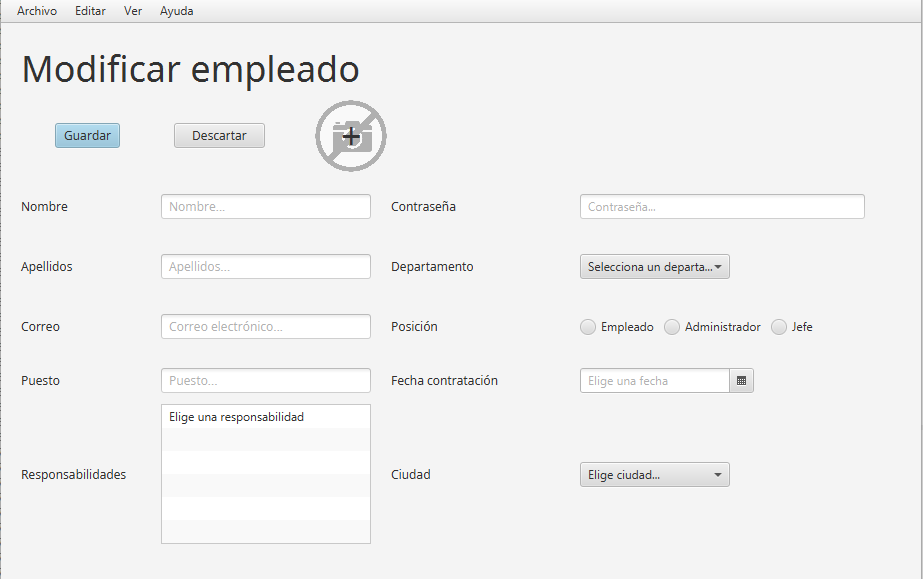
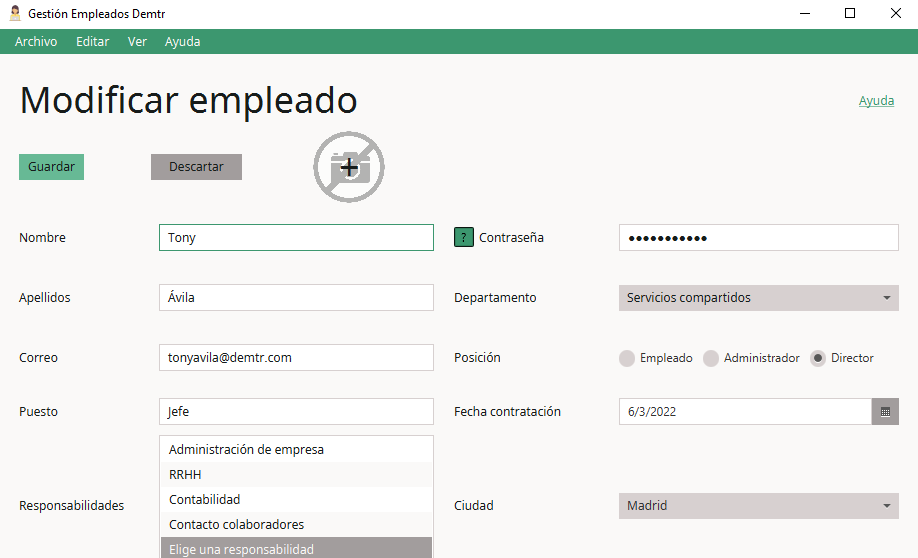
estilos completo

diff --git a/Ejercicios y prácticas/Ekaterina_Stroevitch_Krasnova_Práctica2/out/production/Ekaterina_Stroevitch_Krasnova_Práctica2/ch/makery/address/css/tutorial.css b/Ejercicios y prácticas/Ekaterina_Stroevitch_Krasnova_Práctica2/out/production/Ekaterina_Stroevitch_Krasnova_Práctica2/ch/makery/address/css/tutorial.css
@@ -1,0 +1,39 @@
+* {
+    -fx-primario: #3C976F;
+    -fx-secundario: #1b5e47;
+    -fx-verde-claro: #67b995;
+    -fx-gris-claro: #d7d0d0;
+    -fx-gris-medio: #a29d9d;
+    -fx-gris-oscuro: #575454;
+    -fx-blanco: #faf9f8;
+    -fx-negro:  #181c1b;
+}
+.anchor-inner{
+    -fx-background-color: -fx-blanco;
+}
+
+.title {
+    -fx-background-color: -fx-gris-medio;
+    -fx-background-insets: 1;
+}
+.arrow-button .arrow{
+    -fx-background-color: -fx-gris-claro;
+    -fx-focus-color: transparent;
+}
+.progress-bar{
+    -fx-progress-color: -fx-primario;
+}
+.progress-bar .track{
+    -fx-background-color: -fx-gris-claro;
+    -fx-background-radius: 0;
+}
+.progress-bar  .bar{
+    -fx-background-color: -fx-primario;
+}
+.tab-pane .tab{
+    -fx-background-color: #f1ecec;
+    -fx-focus-color: -fx-primario;
+}
+.tab-header-background{
+    -fx-background-color: -fx-gris-claro;
+}

diff --git a/Ejercicios y prácticas/Ekaterina_Stroevitch_Krasnova_Práctica2/src/ch/makery/address/css/tutorial.css b/Ejercicios y prácticas/Ekaterina_Stroevitch_Krasnova_Práctica2/src/ch/makery/address/css/tutorial.css
@@ -1,0 +1,39 @@
+* {
+    -fx-primario: #3C976F;
+    -fx-secundario: #1b5e47;
+    -fx-verde-claro: #67b995;
+    -fx-gris-claro: #d7d0d0;
+    -fx-gris-medio: #a29d9d;
+    -fx-gris-oscuro: #575454;
+    -fx-blanco: #faf9f8;
+    -fx-negro:  #181c1b;
+}
+.anchor-inner{
+    -fx-background-color: -fx-blanco;
+}
+
+.title {
+    -fx-background-color: -fx-gris-medio;
+    -fx-background-insets: 1;
+}
+.arrow-button .arrow{
+    -fx-background-color: -fx-gris-claro;
+    -fx-focus-color: transparent;
+}
+.progress-bar{
+    -fx-progress-color: -fx-primario;
+}
+.progress-bar .track{
+    -fx-background-color: -fx-gris-claro;
+    -fx-background-radius: 0;
+}
+.progress-bar  .bar{
+    -fx-background-color: -fx-primario;
+}
+.tab-pane .tab{
+    -fx-background-color: #f1ecec;
+    -fx-focus-color: -fx-primario;
+}
+.tab-header-background{
+    -fx-background-color: -fx-gris-claro;
+}

diff --git a/Ejercicios y prácticas/Ekaterina_Stroevitch_Krasnova_Práctica2/out/production/Ekaterina_Stroevitch_Krasnova_Práctica2/ch/makery/address/css/overview.css b/Ejercicios y prácticas/Ekaterina_Stroevitch_Krasnova_Práctica2/out/production/Ekaterina_Stroevitch_Krasnova_Práctica2/ch/makery/address/css/overview.css
@@ -53,7 +53,7 @@
     -fx-border-width: 0 1 0 0;
 }
 .table-row-cell:odd:filled{
-    -fx-background-color: #eae7e6;
+    -fx-background-color: #f5f2f1;
 
 }
 .table-row-cell:even:filled{
@@ -65,7 +65,7 @@
 .table-row-cell:empty .table-cell {
      -fx-border-width: 0;
  }
-.table-row-cell:selected{
+.table-row-cell:selected .table-cell{
     -fx-background-color: -fx-gris-claro;
 
 }
@@ -108,9 +108,6 @@
 .left-arrow-button, .right-arrow-button{
     -fx-background-color: -fx-gris-medio;
     -fx-background-radius: 0;
-}
-.left-arrow-button > *, .right-arrow-button > *{
-    -fx-background-color: -fx-gris-oscuro;
 }
 
 .tree-cell:selected{

diff --git a/Ejercicios y prácticas/Ekaterina_Stroevitch_Krasnova_Práctica2/src/ch/makery/address/css/overview.css b/Ejercicios y prácticas/Ekaterina_Stroevitch_Krasnova_Práctica2/src/ch/makery/address/css/overview.css
@@ -53,7 +53,7 @@
     -fx-border-width: 0 1 0 0;
 }
 .table-row-cell:odd:filled{
-    -fx-background-color: #eae7e6;
+    -fx-background-color: #f5f2f1;
 
 }
 .table-row-cell:even:filled{
@@ -65,7 +65,7 @@
 .table-row-cell:empty .table-cell {
      -fx-border-width: 0;
  }
-.table-row-cell:selected{
+.table-row-cell:selected .table-cell{
     -fx-background-color: -fx-gris-claro;
 
 }
@@ -108,9 +108,6 @@
 .left-arrow-button, .right-arrow-button{
     -fx-background-color: -fx-gris-medio;
     -fx-background-radius: 0;
-}
-.left-arrow-button > *, .right-arrow-button > *{
-    -fx-background-color: -fx-gris-oscuro;
 }
 
 .tree-cell:selected{

diff --git a/Ejercicios y prácticas/Ekaterina_Stroevitch_Krasnova_Práctica2/out/production/Ekaterina_Stroevitch_Krasnova_Práctica2/ch/makery/address/css/create.css b/Ejercicios y prácticas/Ekaterina_Stroevitch_Krasnova_Práctica2/out/production/Ekaterina_Stroevitch_Krasnova_Práctica2/ch/makery/address/css/create.css
@@ -136,7 +136,12 @@
     -fx-border-width: 0;
     -fx-effect: none;
 }
-
-.radio{
+.radio-button{
     -fx-focus-color: -fx-primario;
+}
+.radio{
+    -fx-background-color: -fx-gris-claro;
+}
+
+.radio-button .dot {
 }

diff --git a/Ejercicios y prácticas/Ekaterina_Stroevitch_Krasnova_Práctica2/src/ch/makery/address/css/create.css b/Ejercicios y prácticas/Ekaterina_Stroevitch_Krasnova_Práctica2/src/ch/makery/address/css/create.css
@@ -136,7 +136,12 @@
     -fx-border-width: 0;
     -fx-effect: none;
 }
-
-.radio{
+.radio-button{
     -fx-focus-color: -fx-primario;
+}
+.radio{
+    -fx-background-color: -fx-gris-claro;
+}
+
+.radio-button .dot {
 }

diff --git a/Ejercicios y prácticas/Ekaterina_Stroevitch_Krasnova_Práctica2/src/ch/makery/address/view/help/HelpController.java b/Ejercicios y prácticas/Ekaterina_Stroevitch_Krasnova_Práctica2/src/ch/makery/address/view/help/HelpController.java
@@ -54,6 +54,15 @@ public class HelpController {
     @FXML
     private TitledPane paneVer;
 
+    @FXML
+    private ImageView aniadirImagen;
+
+    @FXML
+    private ImageView ayudaContrasenia;
+
+    @FXML
+    private ImageView filtrarEmpleados;
+
     public TitledPane getPaneBorrar() {
         return paneBorrar;
     }
@@ -90,12 +99,18 @@ public class HelpController {
         FileInputStream fis2 = null;
         FileInputStream fis3 = null;
         FileInputStream fis4 = null;
+        FileInputStream fis5 = null;
+        FileInputStream fis6 = null;
+        FileInputStream fis7 = null;
         try {
             fis = new FileInputStream("resources/images/menu.png");
             fis1 = new FileInputStream("resources/images/verEmpleados.png");
             fis2 = new FileInputStream("resources/images/crearEmpleados.png");
             fis3 = new FileInputStream("resources/images/modificarEmpleado.png");
             fis4 = new FileInputStream("resources/images/borrarEmpleado.png");
+            fis5 = new FileInputStream("resources/images/filtro.png");
+            fis6 = new FileInputStream("resources/images/subirImagen.png");
+            fis7 = new FileInputStream("resources/images/contrasenia.png");
         } catch (FileNotFoundException e) {
             e.printStackTrace();
         }
@@ -105,6 +120,10 @@ public class HelpController {
         crearEmpleados.setImage(new Image(fis2));
         editarEmpleados.setImage(new Image(fis3));
         borrarEmpleados.setImage(new Image(fis4));
+        filtrarEmpleados.setImage(new Image(fis5));
+        aniadirImagen.setImage(new Image(fis6));
+        ayudaContrasenia.setImage(new Image(fis7));
+
     }
     private void progresoAcordeon(){
         barraProgreso.setProgress(0);

diff --git a/Ejercicios y prácticas/Ekaterina_Stroevitch_Krasnova_Práctica2/src/ch/makery/address/Main.java b/Ejercicios y prácticas/Ekaterina_Stroevitch_Krasnova_Práctica2/src/ch/makery/address/Main.java
@@ -1,5 +1,7 @@
 package ch.makery.address;
 
+import java.io.FileInputStream;
+import java.io.FileNotFoundException;
 import java.io.IOException;
 import java.util.*;
 
@@ -16,6 +18,7 @@ import javafx.event.EventHandler;
 import javafx.fxml.FXMLLoader;
 import javafx.geometry.Point2D;
 import javafx.scene.control.*;
+import javafx.scene.image.Image;
 import javafx.scene.input.KeyCode;
 import javafx.scene.input.KeyEvent;
 import javafx.scene.text.Text;
@@ -84,7 +87,14 @@ public class Main extends Application {
 			Scene scene = new Scene(rootLayout);
 			scene.getStylesheets().add(Main.class.getResource("css/global.css").toExternalForm());
 			primaryStage.setScene(scene);
-			primaryStage.setTitle("Práctica 2");
+			primaryStage.setTitle("Gestión Empleados Demtr");
+			FileInputStream fis = null;
+			try {
+				fis = new FileInputStream("resources/images/employee.png");
+			} catch (FileNotFoundException e) {
+				e.printStackTrace();
+			}
+			primaryStage.getIcons().add(new Image(fis));
 			primaryStage.show();
 			Main.setStage(primaryStage);
 		} catch (Exception e) {

diff --git a/Ejercicios y prácticas/Ekaterina_Stroevitch_Krasnova_Práctica2/src/ch/makery/address/view/employees/overview/EmployeesOverviewController.java b/Ejercicios y prácticas/Ekaterina_Stroevitch_Krasnova_Práctica2/src/ch/makery/address/view/employees/overview/EmployeesOverviewController.java
@@ -96,8 +96,8 @@ public class EmployeesOverviewController {
 		FileInputStream fis1 = null;
 		FileInputStream fis2 = null;
     	try {
-			fis = new FileInputStream("resources/images/empleados.png");
-			fis1 = new FileInputStream("resources/images/departamento.png");
+			fis = new FileInputStream("resources/images/network.png");
+			fis1 = new FileInputStream("resources/images/department.png");
 			fis2 = new FileInputStream("resources/images/create.png");
 		} catch (FileNotFoundException e) {
 			e.printStackTrace();
